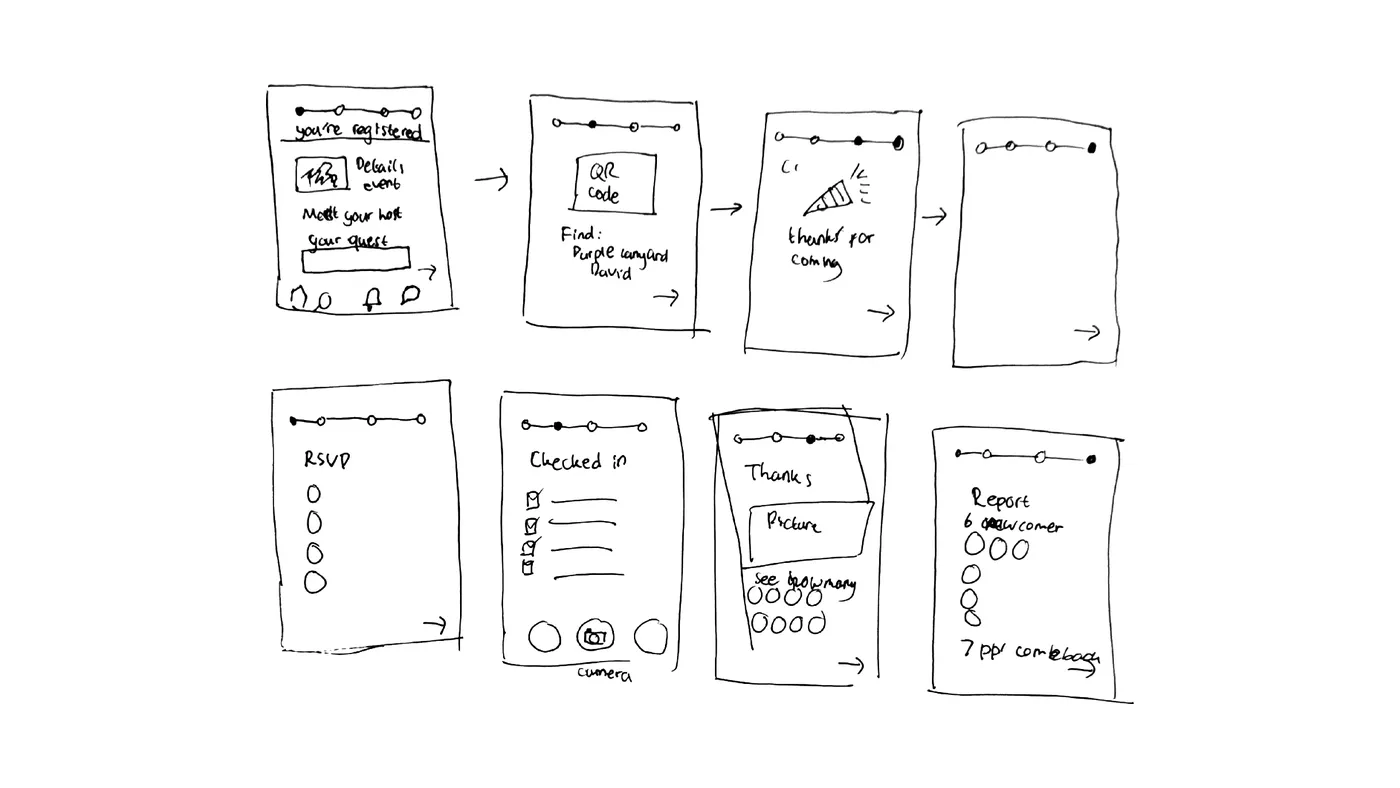
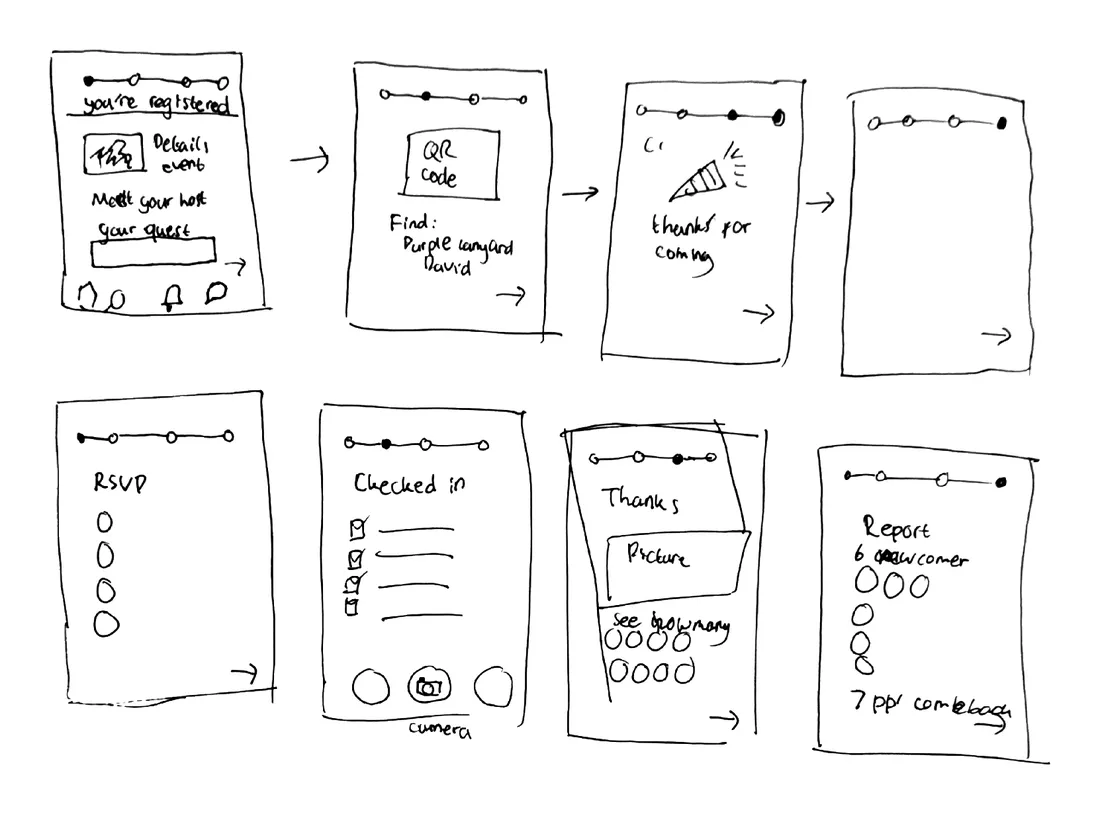
Meetup: fuller clean wireframes beside each paper sketch, wide carousel turning every 2 seconds

diff --git a/src/pages/StudyStory.css b/src/pages/StudyStory.css
@@ -169,9 +169,9 @@
   .story__opps > li{ grid-template-columns: 1fr; gap: var(--space-4); }
 }
 
-/* Paper sketches, each above its clean redraw, that turn by themselves and resolve from a faded memory into focus */
+/* Paper sketches, each beside its clean redraw, that turn by themselves and resolve from a faded memory into focus */
 .story__carousel-stage{ display: grid; width: 100%; }
-.story__carousel-slide{ grid-area: 1 / 1; align-self: start; display: grid; align-content: start; overflow: hidden; border: 1px solid var(--border); border-radius: var(--radius-media); opacity: 0; filter: sepia(0.6) blur(4px); transition: opacity var(--duration-memory) var(--ease-out), filter var(--duration-memory) var(--ease-out); }
+.story__carousel-slide{ grid-area: 1 / 1; align-self: start; display: grid; grid-template-columns: repeat(2, minmax(0, 1fr)); align-items: center; overflow: hidden; border: 1px solid var(--border); border-radius: var(--radius-media); opacity: 0; filter: sepia(0.6) blur(4px); transition: opacity var(--duration-slow) var(--ease-out), filter var(--duration-slow) var(--ease-out); }
 .story__carousel-slide.is-on{ opacity: 1; filter: none; }
 .story__carousel-slide img{ display: block; width: 100%; height: auto; }
 .story__carousel-dots{ display: flex; justify-content: center; gap: var(--space-2); margin-top: var(--space-3); }
@@ -183,6 +183,8 @@
 .story__notes ul{ margin: 0; padding: 0; list-style: none; font-size: var(--text-body-sm); line-height: var(--leading-body); color: var(--muted-foreground); }
 .story__notes li + li{ margin-top: var(--space-1); }
 .story__notes li::before{ content: "– "; }
+.story__section > .story__carousel{ width: 100%; }
+@media (max-width: 800px){ .story__carousel-slide{ grid-template-columns: 1fr; } }
 @keyframes story-notes-in{ from{ opacity: 0; filter: blur(2px); } to{ opacity: 1; filter: none; } }
 @media (max-width: 800px){ .story__notes-cols{ grid-template-columns: 1fr; gap: var(--space-3); } }
 @media (prefers-reduced-motion: reduce){ .story__carousel-slide, .story .story__notes{ transition: none; animation: none; } }

diff --git a/src/pages/StudyStory.jsx b/src/pages/StudyStory.jsx
@@ -84,14 +84,14 @@ function Wire({ kind }) {
   );
 }
 
-// Sketches that turn by themselves, one at a time: the paper sketch with its clean redraw right under it; resting the
+// Sketches that turn by themselves, one at a time: the paper sketch with its clean redraw right beside it; resting the
 // pointer (or focus) on it holds the current one
 function Carousel({ items }) {
   const [i, setI] = useState(0);
   const [held, setHeld] = useState(false);
   useEffect(() => {
     if (held) return undefined;
-    const t = setTimeout(() => setI((n) => (n + 1) % items.length), 5000);
+    const t = setTimeout(() => setI((n) => (n + 1) % items.length), 2000);
     return () => clearTimeout(t);
   }, [i, held, items.length]);
   return (
@@ -105,7 +105,7 @@ function Carousel({ items }) {
     >
       <div className="story__carousel-stage">
         {items.map((s, j) => (
-          // the page as drawn on paper, then the same screens redrawn cleanly
+          // the screens as drawn on paper, and beside them the same screens redrawn cleanly
           <div key={s.src} className={j === i ? "story__carousel-slide is-on" : "story__carousel-slide"} aria-hidden={j !== i}>
             <img src={s.src} alt={s.alt} loading="lazy" />
             <img src={s.clean} alt={`${s.title}, redrawn as clean wireframes`} loading="lazy" />
